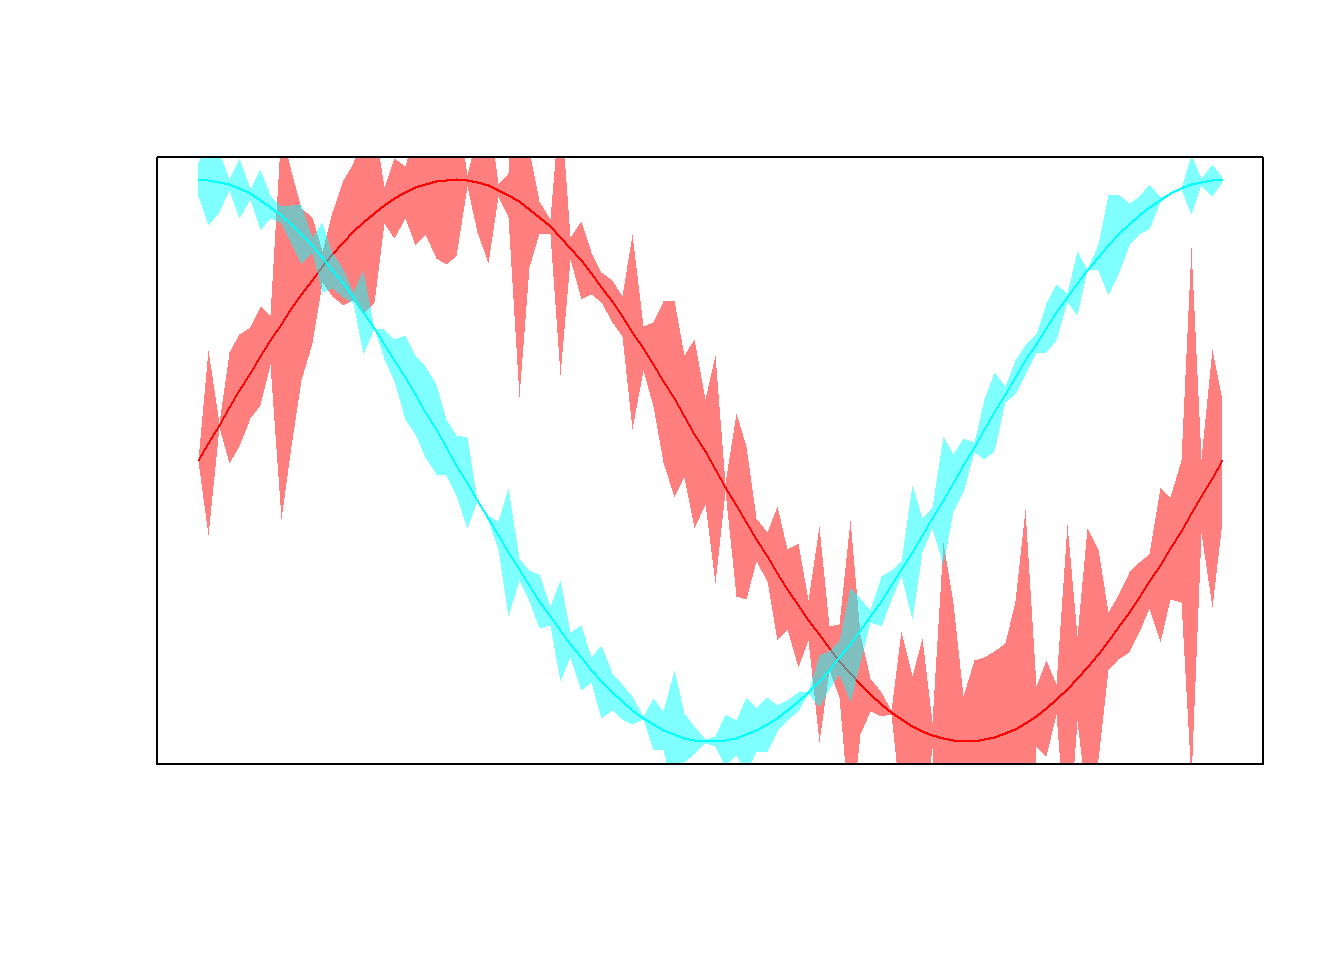
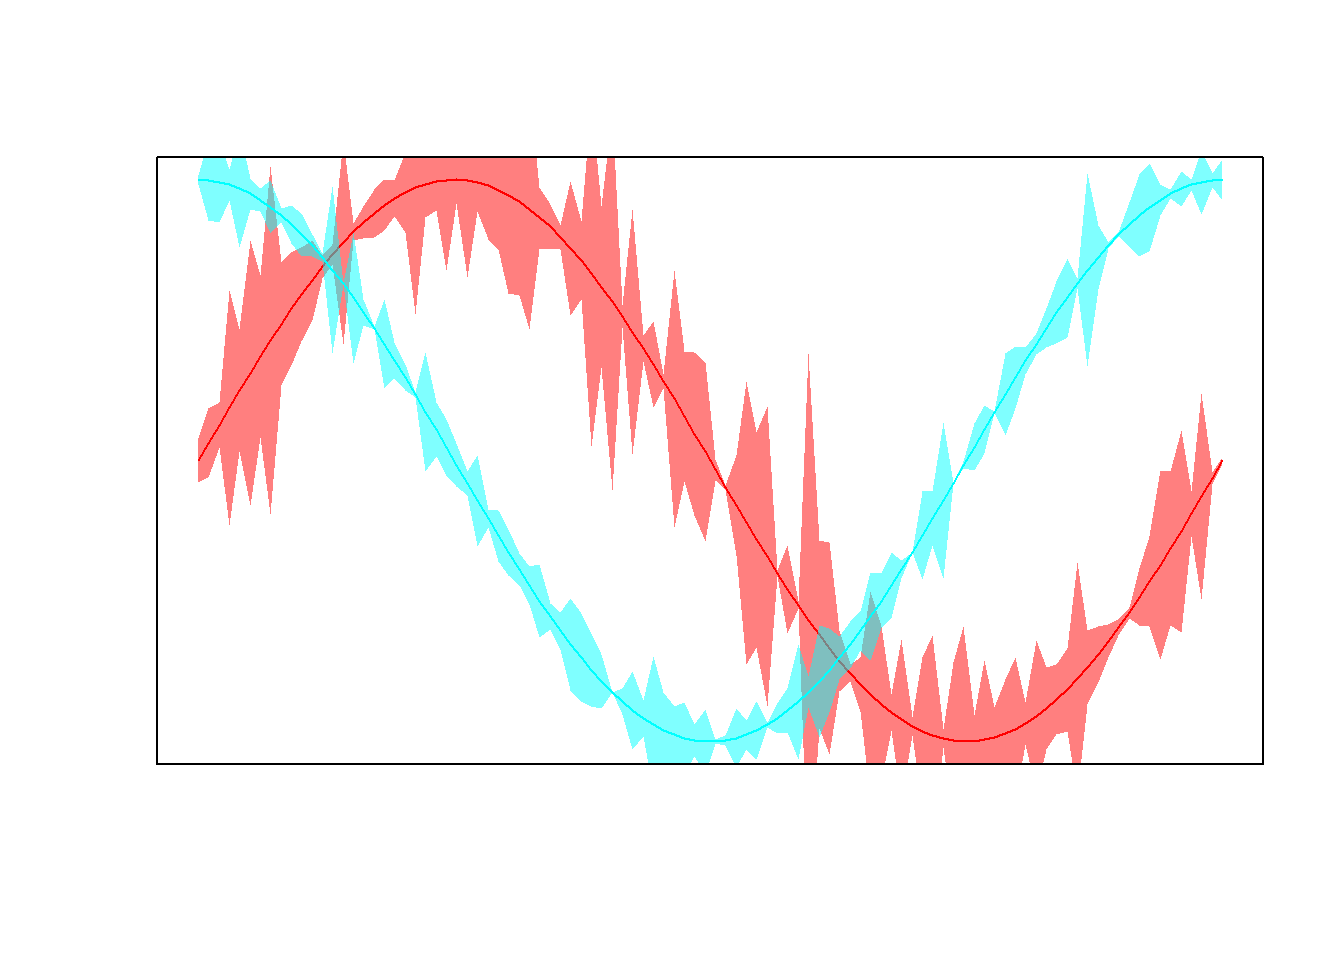
update_auto

Changed region(s): [[0.125, 0.1562, 0.9062, 0.8125], [0.75, 0.1562, 0.9062, 0.375]]

diff --git a/content/post/2017-06-23-beginr_released.html b/content/post/2017-06-23-beginr_released.html
@@ -54,12 +54,12 @@ y &lt;- 1:10 + rnorm(10)
 beginr::plotlm(x, y)</code></pre>
 <p><img src="/post/2017-06-23-beginr_released_files/figure-html/unnamed-chunk-2-1.png" width="672" /></p>
 <pre><code>## [[1]]
-##               Estimate Std. Error    t value     Pr(&gt;|t|)
-## (Intercept) 0.05172226  0.7170599 0.07213102 9.442684e-01
-## x           1.04476655  0.1155647 9.04053569 1.792874e-05
+##              Estimate Std. Error  t value     Pr(&gt;|t|)
+## (Intercept) 0.7207661  0.9044624 0.796900 0.4485112361
+## x           0.9554401  0.1457673 6.554556 0.0001776244
 ## 
 ## [[2]]
-## [1] 0.9108449</code></pre>
+## [1] 0.8430209</code></pre>
 <p>经常需要了解一组数据的分布, 看看是不是正态分布. beginr 里的 <code>plothist()</code> 函数不仅做出直方图和平滑曲线, 并且标出中值, 中位数, 四分位数, 标准偏差, 样本数, 以及用来判断是否正态分布的 skewness 值.</p>
 <pre class="r"><code>x &lt;- rnorm(10000)
 beginr::plothist(x)</code></pre>
@@ -93,20 +93,20 @@ beginr::errorbar(x, y, yupper = 0.1, ylower = 0.1)</code></pre>
 <p>beginr 提供了一些对数据框计算的函数, 例如计算多列数据两两的相关性和线性拟合结果, 可以用 <code>lmdf()</code> 函数.</p>
 <pre class="r"><code>df &lt;- data.frame(a = 1:10, b = 1:10 + rnorm(10), c = 1:10 + rnorm(10))
 beginr::lmdf(df)</code></pre>
-<pre><code>##   x y r.squared adj.r.squared  intercept     slope Std.Error.intercept
-## 1 a b 0.9692274     0.9653808 -0.3907877 1.1167575           0.4365294
-## 2 a c 0.9881918     0.9867158 -0.1268943 1.0136400           0.2430745
-## 3 b a 0.9692274     0.9653808  0.5084117 0.8678942           0.3614115
-## 4 b c 0.9775478     0.9747412  0.3365121 0.8887632           0.3147841
-## 5 c a 0.9881918     0.9867158  0.1886534 0.9748943           0.2330532
-## 6 c b 0.9775478     0.9747412 -0.2409973 1.0998968           0.3645356
-##   Std.Error.slope t.intercept  t.slope Pr.intercept     Pr.slope
-## 1      0.07035309  -0.8952149 15.87361    0.3968072 2.482744e-07
-## 2      0.03917501  -0.5220387 25.87466    0.6157856 5.341306e-09
-## 3      0.05467529   1.4067391 15.87361    0.1971434 2.482744e-07
-## 4      0.04762137   1.0690252 18.66312    0.3162503 7.011880e-08
-## 5      0.03767757   0.8094862 25.87466    0.4416448 5.341306e-09
-## 6      0.05893425  -0.6611075 18.66312    0.5271200 7.011880e-08</code></pre>
+<pre><code>##   x y r.squared adj.r.squared   intercept     slope Std.Error.intercept
+## 1 a b 0.9379239     0.9301644 -0.65347752 1.0682873           0.6029092
+## 2 a c 0.9049750     0.8930968  0.01670671 0.9795398           0.6963189
+## 3 b a 0.9379239     0.9301644  0.91515212 0.8779697           0.4877734
+## 4 b c 0.8207418     0.7983345  0.98798086 0.8456737           0.8534914
+## 5 c a 0.9049750     0.8930968  0.50720271 0.9238777           0.6520614
+## 6 c b 0.8207418     0.7983345 -0.02274889 0.9705184           0.9879006
+##   Std.Error.slope t.intercept   t.slope Pr.intercept     Pr.slope
+## 1      0.09716762 -1.08387378 10.994273   0.31000240 4.165196e-06
+## 2      0.11222195  0.02399290  8.728593   0.98144594 2.319659e-05
+## 3      0.07985700  1.87618280 10.994273   0.09747607 4.165196e-06
+## 4      0.13973141  1.15757564  6.052137   0.28042749 3.051910e-04
+## 5      0.10584497  0.77784504  8.728593   0.45904401 2.319659e-05
+## 6      0.16035961 -0.02302751  6.052137   0.98219234 3.051910e-04</code></pre>
 <p>还有两个函数对<code>tapply()</code>进行了改善, 用来进行因子计算.</p>
 <pre class="r"><code>beginr::tapplydf()
 beginr::tapplydfv()</code></pre>

diff --git a/content/post/2017-06-23-beginr_released.en.html b/content/post/2017-06-23-beginr_released.en.html
@@ -57,12 +57,12 @@ y &lt;- 1:10 + rnorm(10)
 beginr::plotlm(x, y)</code></pre>
 <p><img src="/post/2017-06-23-beginr_released.en_files/figure-html/unnamed-chunk-3-1.png" width="672" /></p>
 <pre><code>## [[1]]
-##              Estimate Std. Error   t value     Pr(&gt;|t|)
-## (Intercept) -1.170607 0.57507837 -2.035561 7.619696e-02
-## x            1.119934 0.09268227 12.083582 2.033378e-06
+##               Estimate Std. Error    t value     Pr(&gt;|t|)
+## (Intercept) 0.08686358  1.0038084 0.08653402 0.9331685764
+## x           0.97219486  0.1617784 6.00942431 0.0003200164
 ## 
 ## [[2]]
-## [1] 0.9480563</code></pre>
+## [1] 0.8186483</code></pre>
 <p>If you want to display the distribution of a data-set, use <code>plothist()</code>, which gives you a histogram with markers of the median, mean, quantiles, standard deviation, sample number and the skewness.</p>
 <pre class="r"><code>x &lt;- rnorm(10000)
 beginr::plothist(x)</code></pre>
@@ -97,19 +97,19 @@ beginr::errorbar(x, y, yupper = 0.1, ylower = 0.1)</code></pre>
 <pre class="r"><code>df &lt;- data.frame(a = 1:10, b = 1:10 + rnorm(10), c = 1:10 + rnorm(10))
 beginr::lmdf(df)</code></pre>
 <pre><code>##   x y r.squared adj.r.squared  intercept     slope Std.Error.intercept
-## 1 a b 0.9143168     0.9036064 -0.4721830 1.1159303           0.7494142
-## 2 a c 0.8655555     0.8487499  1.0608017 0.9225942           0.7976643
-## 3 b a 0.9143168     0.9036064  0.8581319 0.8193315           0.5837498
-## 4 b c 0.8374070     0.8170828  1.7297647 0.7775760           0.7974310
-## 5 c a 0.8655555     0.8487499 -0.2557736 0.9381758           0.8842369
-## 6 c b 0.8374070     0.8170828 -0.9417024 1.0769455           1.1348455
-##   Std.Error.slope t.intercept  t.slope Pr.intercept     Pr.slope
-## 1      0.12077903  -0.6300694 9.239437   0.54622014 1.527202e-05
-## 2      0.12855524   1.3298849 7.176636   0.22022171 9.458808e-05
-## 3      0.08867764   1.4700338 9.239437   0.17975233 1.527202e-05
-## 4      0.12113803   2.1691716 6.418925   0.06189838 2.049617e-04
-## 5      0.13072640  -0.2892592 7.176636   0.77973758 9.458808e-05
-## 6      0.16777661  -0.8298066 6.418925   0.43071169 2.049617e-04</code></pre>
+## 1 a b 0.8532188     0.8348711  0.2530080 0.9221666           0.8390732
+## 2 a c 0.9670308     0.9629097 -0.1276703 1.0656449           0.4316501
+## 3 b a 0.8532188     0.8348711  0.5732056 0.9252328           0.8205744
+## 4 b c 0.8433141     0.8237284  0.4254943 0.9967995           0.9187345
+## 5 c a 0.9670308     0.9629097  0.2971863 0.9074607           0.3864703
+## 6 c b 0.8433141     0.8237284  0.4743631 0.8460218           0.8411164
+##   Std.Error.slope t.intercept   t.slope Pr.intercept     Pr.slope
+## 1      0.13522889   0.3015327  6.819302    0.7706976 1.351394e-04
+## 2      0.06956671  -0.2957728 15.318316    0.7749355 3.274162e-07
+## 3      0.13567852   0.6985418  6.819302    0.5046346 1.351394e-04
+## 4      0.15190887   0.4631309  6.561826    0.6556087 1.762773e-04
+## 5      0.05924024   0.7689760 15.318316    0.4640026 3.274162e-07
+## 6      0.12893084   0.5639684  6.561826    0.5882325 1.762773e-04</code></pre>
 <p>There are two functions as improvements of <code>tapply()</code> for factor calculation.</p>
 <pre class="r"><code>beginr::tapplydf()
 beginr::tapplydfv()</code></pre>

diff --git a/content/post/2017-11-25-migrated-to-hugo.md b/content/post/2017-11-25-migrated-to-hugo.md
@@ -11,7 +11,7 @@ bibliography: [zhaor.bib]
 categories: []
 ---
 
-从今天起，我的旧博客 dapengde.com 停止更新。旧博客的全部帖子已经搬到了 [pzhao.org](http://www.pzhao.org)，欢迎收藏（ctrl + d）和[订阅](http://www.pzhao.org/zh/index.xml))。
+从今天起，我的旧博客 dapengde.com 停止更新。旧博客的全部帖子已经搬到了 [pzhao.org](http://www.pzhao.org)，欢迎收藏（ctrl + d）和[订阅](http://www.pzhao.org/zh/index.xml)。
 
 半年多以前，我用 R 语言的 blogdown 包搭建了新网站，与旧博客并存至今。[当时我就说](http://www.pzhao.org/archives/19323/)，我要等着益辉同学把blogdown 的使用说明书“迁站”一章写好，就照步骤把旧博客内容全搬过去。前些日子，[blogdown 书](https://bookdown.org/yihui/blogdown)终于出版了，从 wordpress 搬到 hugo 的迁站方法写得很详细。迁站的时机成熟了。
 
@@ -25,7 +25,7 @@ categories: []
 
 此外，我还想在每篇帖子末尾增添一个“原文链接”，链到旧博客，万一哪篇帖子格式没转好呢？这也好吧，markdown 的 yaml 里有个 url 条目，稍微改一下插到文末就行了。
 
-看，这就是 hugo 静态网站的好处。有 R 语言在手，以后我就可以对帖子随心所欲操作了。
+看，这就是 hugo 静态网站的好处。有 R 语言在手，以后我就可以对帖子随心所欲地批量操作了。Hugo-academic 主题我很满意，唯一不足的是缺个归档页面，一目了然展示全部帖子清单。看来得以后自己动手做一个。
 
 旧博客 dapengde.com 虽然不更新了，但会仍然放在那里，发挥余热。前些天，还有朋友[来我四年前写的帖子后面留言](http://dapengde.com/archives/14752#comment-153909)呢。
 
